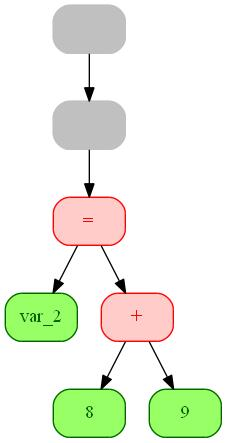
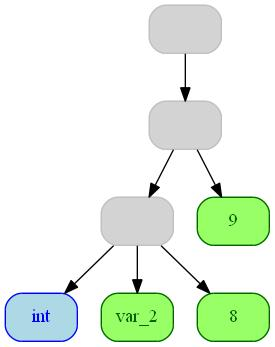
New version with If Else While
Many bugs fixed

diff --git a/Compiler/Librarys/AstNodeLib.hpp b/Compiler/Librarys/AstNodeLib.hpp
@@ -90,69 +90,77 @@ string BtInf (const Token value)
 {
     char tmp[5] = "";
 
-    switch (value.type)
+    if (value.type == Digit ||
+        value.type == Var)
     {
-        case Digit:
+        SetColor ("darkgreen", "darkgreen", "#98FF66");
+
+        switch (value.type)
         {
-            SetColor ("darkgreen", "darkgreen", "#98FF66");
+            case Digit: { sprintf (tmp, "%d\n",     value.value); break; }
+            case   Var: { sprintf (tmp, "var_%d\n", value.value); break; }
 
-            sprintf (tmp, "%d\n", value.value);
-
-            break;
+            default: break;
         }
+    }
 
-        case   Var:
+    else if (value.type == If    ||
+             value.type == While ||
+             value.type == Int)
+    {
+        SetColor ("blue", "blue", "lightblue");
+
+        switch (value.type)
         {
-            SetColor ("darkgreen", "darkgreen", "#98FF66");
+            case    If: { sprintf (tmp, "if\n");    break; }
+            case While: { sprintf (tmp, "while\n"); break; }
+            case   Int: { sprintf (tmp, "int\n");   break; }
 
-            sprintf (tmp, "var_%d\n", value.value);
-
-            break;
+            default: break;
         }
+    }
 
-        case    If:
+    else if (value.type == None ||
+             value.type == Declaration)
+    {
+        SetColor ("grey", "grey", "lightgrey");
+    }
+
+    else if (value.type == Add        ||
+             value.type == Sub        ||
+             value.type == Mul        ||
+             value.type == Div        ||
+             value.type == Mod        ||
+             value.type == Assignment ||
+             value.type == Equal      ||
+             value.type == NotEqual   ||
+             value.type == And        ||
+             value.type == Or         ||
+             value.type == Less       ||
+             value.type == More       ||
+             value.type == LessEqual  ||
+             value.type == MoreEqual)
+    {
+        SetColor ("red", "red", "#FFCCC9");
+
+        switch (value.type)
         {
-            SetColor ("blue", "blue", "lightblue");
+            case        Add: { sprintf (tmp, "+\n");  break; }
+            case        Sub: { sprintf (tmp, "-\n");  break; }
+            case        Mul: { sprintf (tmp, "*\n");  break; }
+            case        Div: { sprintf (tmp, "/\n");  break; }
+            case        Mod: { sprintf (tmp, "%\n");  break; }
+            case Assignment: { sprintf (tmp, "=\n");  break; }
+            case      Equal: { sprintf (tmp, "==\n"); break; }
+            case   NotEqual: { sprintf (tmp, "!=\n"); break; }
+            case        And: { sprintf (tmp, "&&\n"); break; }
+            case         Or: { sprintf (tmp, "||\n"); break; }
+            case       Less: { sprintf (tmp, "<\n");  break; }
+            case       More: { sprintf (tmp, ">\n");  break; }
+            case  LessEqual: { sprintf (tmp, "<=\n"); break; }
+            case  MoreEqual: { sprintf (tmp, ">=\n"); break; }
 
-            sprintf (tmp, "if\n");
-
-            break;
-        }
-
-        case While:
-        {
-            SetColor ("blue", "blue", "lightblue");
-
-            sprintf (tmp, "while\n");
-
-            break;
-        }
-
-        case  None:
-        {
-            SetColor ("grey", "grey", "grey");
-
-            break;
-        }
-
-        default:
-        {
-            SetColor ("red", "red", "#FFCCC9");
-
-            switch (value.type)
-            {
-                case Add:        { sprintf (tmp, "+\n");  break; }
-                case Sub:        { sprintf (tmp, "-\n");  break; }
-                case Mul:        { sprintf (tmp, "*\n");  break; }
-                case Div:        { sprintf (tmp, "/\n");  break; }
-                case Assignment: { sprintf (tmp, "=\n");  break; }
-                case Equal:      { sprintf (tmp, "==\n"); break; }
-                case    Or:      { sprintf (tmp, "||\n"); break; }
-
-                default: break;
-            }
-
-            break;
+            default: break;
         }
     }
 

diff --git a/Compiler/Headers/FrontEnd/Token.hpp b/Compiler/Headers/FrontEnd/Token.hpp
@@ -92,20 +92,21 @@ std::ostream& operator << (std::ostream& os, Token const &m)
 
     switch (m.type)
     {
-        case     Digit: { sprintf (tmp, "%d",     m.value); break; }
+        case       Digit: { sprintf (tmp, "%d",     m.value); break; }
 
-        case       Var: { sprintf (tmp, "var_%d", m.value); break; }
-        case     Equal: { sprintf (tmp, "==");              break; }
-        case  NotEqual: { sprintf (tmp, "!=");              break; }
-        case       And: { sprintf (tmp, "&&");              break; }
-        case        Or: { sprintf (tmp, "||");              break; }
-        case LessEqual: { sprintf (tmp, "<=");              break; }
-        case MoreEqual: { sprintf (tmp, ">=");              break; }
-        case        If: { sprintf (tmp, "if");              break; }
-        case      Else: { sprintf (tmp, "else");            break; }
-        case     While: { sprintf (tmp, "while");           break; }
-        case       Int: { sprintf (tmp, "int");             break; }
-        case      None: { sprintf (tmp, "none");            break; }
+        case         Var: { sprintf (tmp, "var_%d", m.value); break; }
+        case       Equal: { sprintf (tmp, "==");              break; }
+        case    NotEqual: { sprintf (tmp, "!=");              break; }
+        case         And: { sprintf (tmp, "&&");              break; }
+        case          Or: { sprintf (tmp, "||");              break; }
+        case   LessEqual: { sprintf (tmp, "<=");              break; }
+        case   MoreEqual: { sprintf (tmp, ">=");              break; }
+        case          If: { sprintf (tmp, "if");              break; }
+        case        Else: { sprintf (tmp, "else");            break; }
+        case       While: { sprintf (tmp, "while");           break; }
+        case         Int: { sprintf (tmp, "int");             break; }
+        case Declaration: { sprintf (tmp, "declaration");     break; }
+        case        None: { sprintf (tmp, "none");            break; }
 
         default:        { sprintf (tmp, "%c", m.type);      break; }
     }

diff --git a/Compiler/Headers/BackEnd/Compiler.hpp b/Compiler/Headers/BackEnd/Compiler.hpp
@@ -2,9 +2,9 @@
 
 //{==============================================================================
 
-#define DETOUR \
+#define DETOUR(action) \
 for (size_t i = 0; i < current -> children ().size (); i++)\
-    CreateAsm (current -> children ()[i], write);
+    action
 
 //}==============================================================================
 
@@ -20,11 +20,45 @@ void CreateAsm (AstNode* current, FILE* write)
 
     switch (current -> key ().type)
     {
-        case Add:        { DETOUR fprintf (write, "add;\n"); break; }
-        case Sub:        { DETOUR fprintf (write, "sub;\n"); break; }
-        case Mul:        { DETOUR fprintf (write, "mul;\n"); break; }
-        case Div:        { DETOUR fprintf (write, "div;\n"); break; }
-        case Mod:        { DETOUR fprintf (write, "mod;\n"); break; }
+        case Add:
+        {
+            DETOUR (CreateAsm (current -> children ()[i], write);)
+            DETOUR (fprintf (write, "add;\n");)
+
+            break;
+        }
+
+        case Sub:
+        {
+            DETOUR (CreateAsm (current -> children ()[i], write);)
+            DETOUR (fprintf (write, "sub;\n");)
+
+            break;
+        }
+
+        case Sub:
+        {
+            DETOUR (CreateAsm (current -> children ()[i], write);)
+            DETOUR (fprintf (write, "mul;\n");)
+
+            break;
+        }
+
+        case Sub:
+        {
+            DETOUR (CreateAsm (current -> children ()[i], write);)
+            DETOUR (fprintf (write, "div;\n");)
+
+            break;
+        }
+
+        case Sub:
+        {
+            DETOUR (CreateAsm (current -> children ()[i], write);)
+            DETOUR (fprintf (write, "mod;\n");)
+
+            break;
+        }
 
         case Assignment:
         {

diff --git a/Compiler/Headers/FrontEnd/Untitled1.cpp b/Compiler/Headers/FrontEnd/Untitled1.cpp
@@ -1,0 +1,19 @@
+// exception example
+#include <iostream>       // std::cerr
+#include <typeinfo>       // operator typeid
+#include <exception>      // std::exception
+
+class Polymorphic {virtual void member(){}};
+
+int main () {
+  try
+  {
+    Polymorphic * pb = 0;
+    typeid(*pb);  // throws a bad_typeid exception
+  }
+  catch (std::exception& e)
+  {
+    std::cerr << "exception caught: " << e.what() << '\n';
+  }
+  return 0;
+}
